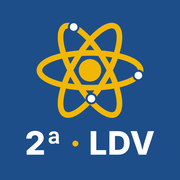
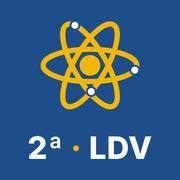
Ícone: texto "2ª · LDV" separado do átomo, também no ícone redondo do Android
Claude-Session: https://claude.ai/code/session_012uLHvyL3UWvJNCiAWi6vCb

diff --git a/sw.js b/sw.js
@@ -1,6 +1,6 @@
 /* Funciona sem internet: guarda o app no celular.
    Ao publicar uma versão nova, mude o número em VERSAO. */
-const VERSAO = 'fisica2ldv-v23';
+const VERSAO = 'fisica2ldv-v24';
 const BASE = ['./', './index.html', './manifest.webmanifest', './icons/icon-192.png', './icons/icon-512.png', './icons/maskable-512.png', './icons/apple-touch-icon.png', './icons/favicon.png'];
 
 self.addEventListener('install', e => {
